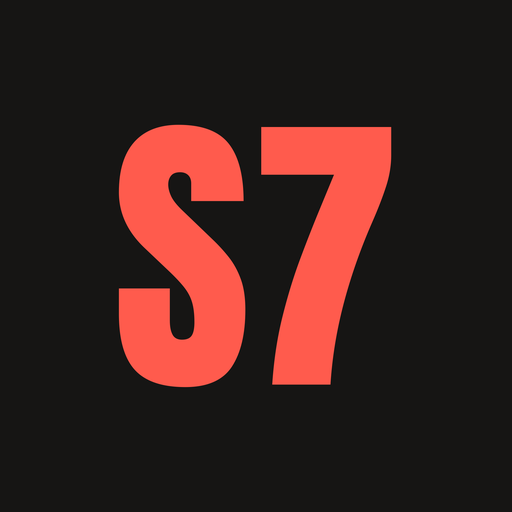
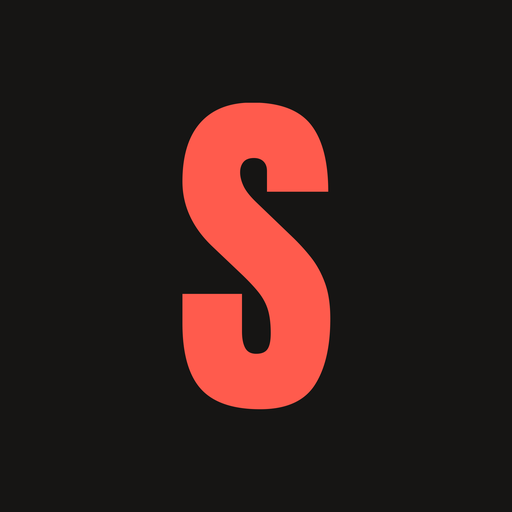
Icône de l’app : « S » au lieu de « S7 »
Icônes régénérées par tools/make-icons.py (taille calée sur la hauteur de
la lettre), cache du service worker passé en s7-v2.

Claude-Session: https://claude.ai/code/session_0182qpNK1C22YA99Pagcwooe

Changed region(s): [[0.2188, 0.1875, 0.7812, 0.8125]]

diff --git a/sw.js b/sw.js
@@ -1,6 +1,6 @@
 /* S7 — service worker : précache complet, cache d’abord.
    Incrémenter CACHE à chaque déploiement pour que l’iPhone récupère la nouvelle version. */
-const CACHE = "s7-v1";
+const CACHE = "s7-v2";
 const ASSETS = [
   "./",
   "index.html",

diff --git a/tools/make-icons.py b/tools/make-icons.py
@@ -1,5 +1,5 @@
 #!/usr/bin/env python3
-"""Génère les icônes de la PWA S7 (fond #161514, « S7 » en Anton #FF5B4D).
+"""Génère les icônes de la PWA S7 (fond #161514, « S » en Anton #FF5B4D).
 
 Usage (depuis la racine du dépôt) : python3 tools/make-icons.py
 Dépendance : Pillow (FreeType avec support WOFF2, standard dans les wheels Pillow).
@@ -12,19 +12,19 @@ FONT = ROOT / "fonts" / "anton-latin-400-normal.woff2"
 OUT = ROOT / "icons"
 BG = "#161514"
 FG = "#FF5B4D"
-TEXT = "S7"
+TEXT = "S"
 SS = 4  # suréchantillonnage pour un rendu net
 
 
-def make(size: int, text_width_ratio: float) -> Image.Image:
-    """text_width_ratio : largeur du texte / côté de l’icône."""
+def make(size: int, text_height_ratio: float) -> Image.Image:
+    """text_height_ratio : hauteur de la lettre / côté de l’icône."""
     big = size * SS
     img = Image.new("RGB", (big, big), BG)
     draw = ImageDraw.Draw(img)
-    # Taille de police pour que le texte occupe la largeur visée
+    # Taille de police pour que la lettre occupe la hauteur visée
     probe = ImageFont.truetype(str(FONT), 1000)
     l, t, r, b = probe.getbbox(TEXT)
-    fs = int(1000 * big * text_width_ratio / (r - l))
+    fs = int(1000 * big * text_height_ratio / (b - t))
     font = ImageFont.truetype(str(FONT), fs)
     l, t, r, b = font.getbbox(TEXT)
     # Centrage optique sur la boîte réelle des glyphes
@@ -36,12 +36,12 @@ def make(size: int, text_width_ratio: float) -> Image.Image:
 
 def main() -> None:
     OUT.mkdir(exist_ok=True)
-    # Icônes « any » et apple-touch : texte large (iOS arrondit les coins lui-même)
+    # Icônes « any » et apple-touch : lettre grande (iOS arrondit les coins lui-même)
     for size, name in [(180, "apple-touch-icon.png"), (192, "icon-192.png"), (512, "icon-512.png")]:
-        make(size, 0.56).save(OUT / name, optimize=True)
-    # Maskable : le texte tient dans la zone sûre (cercle de 80 % du côté)
+        make(size, 0.6).save(OUT / name, optimize=True)
+    # Maskable : la lettre tient dans la zone sûre (cercle de 80 % du côté)
     for size in (192, 512):
-        make(size, 0.42).save(OUT / f"icon-maskable-{size}.png", optimize=True)
+        make(size, 0.46).save(OUT / f"icon-maskable-{size}.png", optimize=True)
     print("Icônes écrites dans", OUT)
 
 
